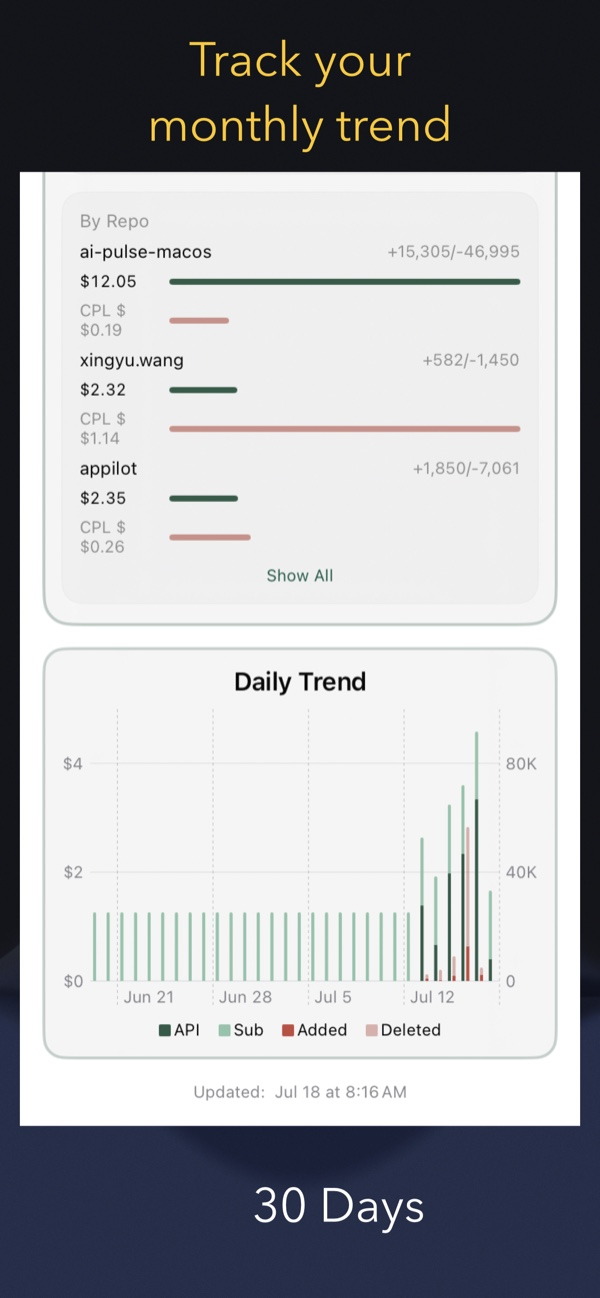
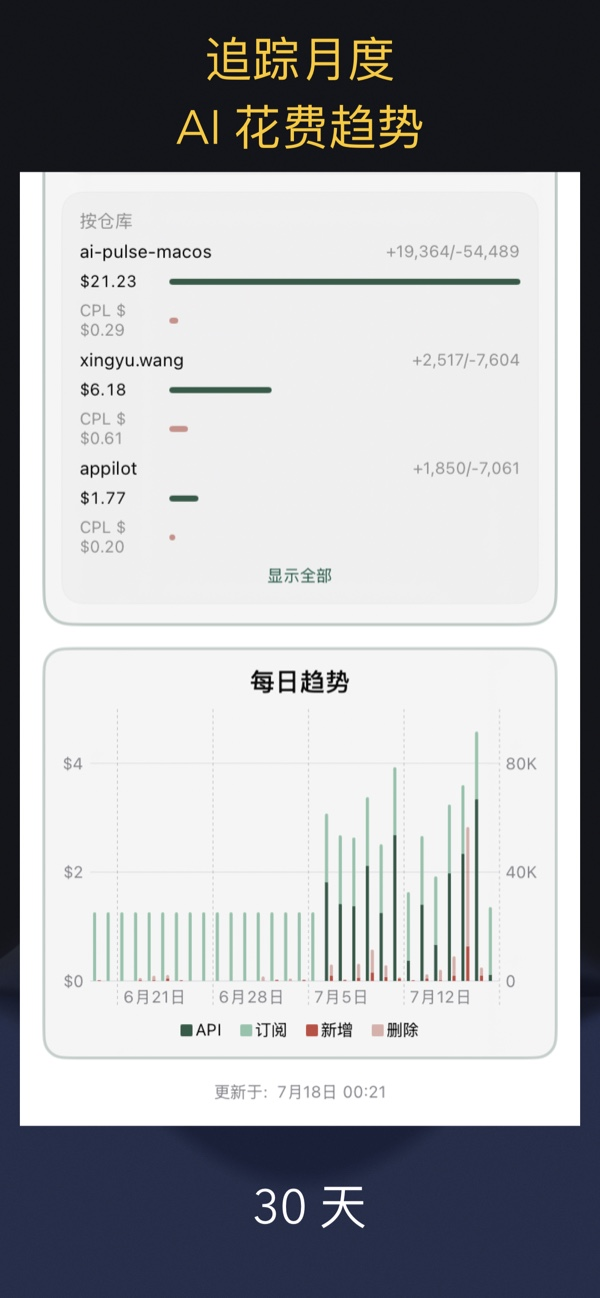
docs: merge into one bilingual README; fix swapped screenshot languages
- Merge README.md + README.zh.md into a single bilingual README.md:
  content interleaves Chinese then English per section; section headings
  show both languages on one line; screenshot gallery shows each screen
  in both EN and ZH versions side by side
- Delete README.zh.md (merged into README.md)
- Fix screenshot language labeling: the en/zh suffix on the screenshot
  files was reversed (English README had shown the Chinese screenshots);
  swapped the suffixes so names match content

diff --git a/README.md b/README.md
@@ -7,33 +7,46 @@
 [![Platform](https://img.shields.io/badge/platform-macOS%2014%2B%20%2F%20iOS%2016%2B-lightgrey)]()
 [![Swift](https://img.shields.io/badge/swift-6.0-orange)]()
 
-**Your AI coding cost tracker.** See exactly what you spend on AI coding tools —
-Claude Code, Cursor, Copilot, DeepSeek, and more — and whether the output is worth it.
-**100% local — zero data leaves your machine.**
+**你的 AI 编程花费追踪仪。** 精确掌握你在 AI 编码工具（Claude Code、Cursor、Copilot、DeepSeek 等）上的花费，以及这些产出是否值得。**100% 本地运行 —— 数据绝不出设备。**
 
-## Screenshots
+**Your AI coding cost tracker.** See exactly what you spend on AI coding tools — Claude Code, Cursor, Copilot, DeepSeek, and more — and whether the output is worth it. **100% local — zero data leaves your machine.**
 
-| Dashboard · Today | Dashboard · This Week | Settings |
+## 截图 Screenshots
+
+|  | English | 中文 |
 |:---:|:---:|:---:|
-| ![Dashboard Today](docs/screenshots/macos-dashboard-today-en.jpg) | ![Dashboard This Week](docs/screenshots/macos-dashboard-week-en.jpg) | ![Settings](docs/screenshots/macos-settings-en.jpg) |
+| **仪表盘 · 今日 / Dashboard · Today** | ![Dashboard Today](docs/screenshots/macos-dashboard-today-en.jpg) | ![仪表盘今日](docs/screenshots/macos-dashboard-today-zh.jpg) |
+| **仪表盘 · 本周 / Dashboard · This Week** | ![Dashboard This Week](docs/screenshots/macos-dashboard-week-en.jpg) | ![仪表盘本周](docs/screenshots/macos-dashboard-week-zh.jpg) |
+| **设置 / Settings** | ![Settings](docs/screenshots/macos-settings-en.jpg) | ![设置](docs/screenshots/macos-settings-zh.jpg) |
+| **iOS 仪表盘 · 今日 / iOS Dashboard · Today** | ![iOS Dashboard Today](docs/screenshots/ios-dashboard-today-en.jpg) | ![iOS 仪表盘今日](docs/screenshots/ios-dashboard-today-zh.jpg) |
+| **iOS 仪表盘 · 30 天 / iOS Dashboard · 30 Days** | ![iOS Dashboard 30 Days](docs/screenshots/ios-dashboard-30d-en.jpg) | ![iOS 仪表盘30天](docs/screenshots/ios-dashboard-30d-zh.jpg) |
 
-## Download
+## 下载 Download
 
 [![Download on the Mac App Store](https://tools.applemediaservices.com/api/badges/download-on-the-mac-app-store/black/en-us?size=250x83)](https://apps.apple.com/us/app/ai-pulse/id6786290416?mt=12)
 [![Download on the App Store](https://tools.applemediaservices.com/api/badges/download-on-the-app-store/black/en-us?size=250x83)](https://apps.apple.com/us/app/ai-pulse-coding-cost-tracker/id6786290416?mt=8)
 
+- **macOS 版** — 需要 macOS 14 Sonoma 或更高版本
+- **iOS 版** — 需要 iOS 16 或更高版本，以及 macOS 版作为数据来源
 - **macOS** — requires macOS 14 Sonoma or later
 - **iOS** — requires iOS 16 or later, and the macOS version as its data source
 
-💡 **Universal Purchase — buy once, use on both platforms.** A single purchase
-covers iOS and macOS. If you already own the Mac version and still see a price
-button on your iPhone or iPad, don't worry — as long as you're signed in with
-the same Apple ID, the App Store will recognize your existing purchase and let
-you download for free. You will never be charged twice.
+💡 **多平台通用购买（Universal Purchase）—— 一次购买，iOS 与 macOS 通用。** 如果您已经购买了 Mac 版，在 iPhone / iPad 上下载时仍看到价格按钮，请不要担心：只要使用同一个 Apple ID，直接点击购买即可，系统会自动识别您的购买记录并提示「免费下载」，绝不会向您重复扣费。
 
-## Features
+💡 **Universal Purchase — buy once, use on both platforms.** A single purchase covers iOS and macOS. If you already own the Mac version and still see a price button on your iPhone or iPad, don't worry — as long as you're signed in with the same Apple ID, the App Store will recognize your existing purchase and let you download for free. You will never be charged twice.
 
-### Dashboard
+## 功能 Features
+
+### 仪表盘（Dashboard）
+
+以机器人头像为主视觉的主窗口，一目了然：
+
+- **今日 / 本周 / 30 天** — 一键切换时间范围
+- **环形图** — 订阅 vs API 花费分布，外加各服务商明细
+- **趋势图** — 每日 API + 订阅花费堆叠展示（本周 / 30 天页签）
+- **工具 & 仓库排行** — 哪些 AI 工具和项目烧钱最多，含 **CPL（代码行成本）**
+- **实时统计** — 净增代码行、增/删行数、请求次数、Token 用量
+- **余额 & 额度** — 今日页签显示 API 余额与订阅用量（如 Claude、Copilot）
 
 Your home screen — styled as a robot head — shows the full picture at a glance:
 
@@ -44,7 +57,14 @@ Your home screen — styled as a robot head — shows the full picture at a glan
 - **Live stats** — net lines of code, added/deleted lines, request count, and token usage
 - **Balances & quotas** — remaining API balance and subscription utilization (e.g. Claude, Copilot) on the Today tab
 
-### Dock
+### Dock 图标（Dock）
+
+Dock 图标是你的「活」花费仪表：
+
+- **花费进度环** — 图标周围的光环随今日花费 vs 日均费率填充
+- **角标** — 图标上直接显示今日总额
+- **右键统计菜单** — 今日/本周概览，以及按工具、服务商、仓库下钻
+- **金色脉冲** — 新数据到达时的一抹光晕
 
 The Dock icon is a living gauge for your spending:
 
@@ -53,67 +73,72 @@ The Dock icon is a living gauge for your spending:
 - **Right-click stats menu** — today/week summaries and drill-downs by tool, provider, and repo
 - **Gold pulse** — a brief glow whenever new data arrives
 
-### iOS Companion
+### iOS 伴侣应用（iOS Companion）
 
-A read-only companion that mirrors your spending to your iPhone or iPad via iCloud —
-today, this week, and 30-day trends, donut charts, and per-repo breakdowns. It never
-collects or uploads anything on its own; it only reads what your Mac has synced.
+只读伴侣应用，通过 iCloud 将花费镜像到你的 iPhone / iPad —— 今日、本周、30 天趋势、环形图、按仓库明细。它自身不采集、不上传任何数据，只读取 Mac 同步过来的内容。
 
-| iOS Dashboard · Today | iOS Dashboard · 30 Days |
-|:---:|:---:|
-| ![iOS Dashboard Today](docs/screenshots/ios-dashboard-today-en.jpg) | ![iOS Dashboard 30 Days](docs/screenshots/ios-dashboard-30d-en.jpg) |
+A read-only companion that mirrors your spending to your iPhone or iPad via iCloud — today, this week, and 30-day trends, donut charts, and per-repo breakdowns. It never collects or uploads anything on its own; it only reads what your Mac has synced.
 
-### Supported Tools
+### 支持的工具（Supported Tools）
+
+目前追踪 13 款 AI 工具，通过三种采集方式：
 
 AI Pulse tracks 13 AI tools today across three collection methods:
 
-| Collection method | Tools |
+| 采集方式 / Collection method | 工具 / Tools |
 |---|---|
-| **Log parsing** (token-level pricing) | Claude Code, aider, Codex CLI, OpenCode, Qwen Code |
-| **Balance API** (exact balance deltas) | DeepSeek, OpenAI, Kimi, Zhipu (ChatGLM), Anthropic\* |
-| **Subscription detection** (monthly fee, amortized) | Cursor, GitHub Copilot, Windsurf (+ Trae, Augment Code) |
+| **日志解析**（Token 级计价）/ **Log parsing** (token-level) | Claude Code、aider、Codex CLI、OpenCode、Qwen Code |
+| **余额 API**（精确余额差值）/ **Balance API** (exact deltas) | DeepSeek、OpenAI、Kimi、智谱（ChatGLM）、Anthropic\* |
+| **订阅检测**（月费按天摊销）/ **Subscription detection** | Cursor、GitHub Copilot、Windsurf（+ Trae、Augment Code） |
 
-\* Anthropic has no balance API, so its usage is estimated from token pricing.
+\* Anthropic 无余额 API，其用量按 Token 计价估算。 / Anthropic has no balance API, so its usage is estimated from token pricing.
 
-## Getting Started
+## 快速上手 Getting Started
 
-1. **Install** — download from the Mac App Store (requires macOS 14 or later).
-2. **Onboarding** — on first launch, a short walkthrough detects your installed AI tools
-   across four steps: AI providers, dev tools, repos, and a summary. Detected tools are
-   enabled automatically.
-3. **Grant Home access** — to read logs from Claude Code, Codex, OpenCode, Qwen, and aider
-   inside the sandbox, allow Home-folder access when prompted.
-4. **Add API keys** — Settings → Integrations → **AI Providers**. Keys are stored locally
-   and validated with a live balance check.
-5. **Choose plans** — Settings → Integrations → **Dev Tools** lets you pick your subscription
-   plan (e.g. Cursor Pro) and preferred API key.
-6. **Explore the Dashboard** — switch between Today, This Week, and 30 Days.
-7. **Right-click the Dock icon** anytime for a quick stats menu.
-8. **On the go?** Install the iOS companion with the same Apple ID — your spending
-   syncs automatically via iCloud.
+1. **安装** — 从 Mac App Store 下载（需要 macOS 14 或更高版本）。
+   **Install** — download from the Mac App Store (requires macOS 14 or later).
+2. **首次引导** — 首次启动的四步引导会检测你已安装的 AI 工具：AI 服务商、开发工具、仓库、完成。检测到的工具会自动启用。
+   **Onboarding** — on first launch, a short walkthrough detects your installed AI tools across four steps: AI providers, dev tools, repos, and a summary. Detected tools are enabled automatically.
+3. **授权主目录访问** — 在沙盒环境下读取 Claude Code、Codex、OpenCode、Qwen 和 aider 的日志时，按提示允许访问主目录。
+   **Grant Home access** — to read logs from Claude Code, Codex, OpenCode, Qwen, and aider inside the sandbox, allow Home-folder access when prompted.
+4. **添加 API Key** — 设置 → 集成 → **AI 服务商**。Key 仅保存在本地，并通过实时余额校验验证。
+   **Add API keys** — Settings → Integrations → **AI Providers**. Keys are stored locally and validated with a live balance check.
+5. **选择订阅方案** — 设置 → 集成 → **开发工具**，选择你的订阅方案（如 Cursor Pro）与首选 API Key。
+   **Choose plans** — Settings → Integrations → **Dev Tools** lets you pick your subscription plan (e.g. Cursor Pro) and preferred API key.
+6. **浏览仪表盘** — 在今日、本周、30 天之间切换。
+   **Explore the Dashboard** — switch between Today, This Week, and 30 Days.
+7. **随时右键 Dock 图标** 查看快速统计菜单。
+   **Right-click the Dock icon** anytime for a quick stats menu.
+8. **手机查看？** 使用同一 Apple ID 安装 iOS 伴侣应用 —— 花费会自动通过 iCloud 同步。
+   **On the go?** Install the iOS companion with the same Apple ID — your spending syncs automatically via iCloud.
 
-## Data & Privacy
+## 数据与隐私 Data & Privacy
 
-- **100% local** — everything is processed on your Mac; no data leaves your machine.
-- **API keys** are stored locally and used only to query your own balances.
-- **iOS companion is read-only** — it never collects anything itself, and iCloud sync
-  happens only between your own devices signed in with the same Apple ID.
+- **100% 本地运行** — 一切都在你的 Mac 上处理，数据绝不出设备。
+  **100% local** — everything is processed on your Mac; no data leaves your machine.
+- **API Key** 仅保存在本地，只用于查询你自己的余额。
+  **API keys** are stored locally and used only to query your own balances.
+- **iOS 伴侣为只读** — 它自身不采集任何数据；iCloud 同步只发生在使用同一 Apple ID 登录的你自己的设备之间。
+  **iOS companion is read-only** — it never collects anything itself, and iCloud sync happens only between your own devices signed in with the same Apple ID.
 
-## Requirements
+## 环境要求 Requirements
 
+- macOS 14 Sonoma 或更高版本
+- iOS 伴侣需要 iOS 16 或更高版本（并以 macOS 版作为数据来源）
 - macOS 14 Sonoma or later
 - The iOS companion requires iOS 16 or later (plus the macOS version as its data source)
 
-## Related Projects
+## 相关项目 Related Projects
 
-- [AI Pulse for Chrome](https://github.com/wxy/ai-pulse) — browser extension for
-  web-based AI tools (ChatGPT, Claude.ai, DeepSeek Chat, and more)
+- [AI Pulse Chrome 扩展](https://github.com/wxy/ai-pulse) — 覆盖网页端 AI 工具（ChatGPT、Claude.ai、DeepSeek Chat 等）
+- [AI Pulse for Chrome](https://github.com/wxy/ai-pulse) — browser extension for web-based AI tools (ChatGPT, Claude.ai, DeepSeek Chat, and more)
 
-## Contributing
+## 参与贡献 Contributing
 
-See [CONTRIBUTING.md](CONTRIBUTING.md) for development setup, architecture, and how to
-add new integrations.
+开发环境搭建、架构说明、如何新增集成，请参阅 [CONTRIBUTING.md](CONTRIBUTING.md)。
 
-## License
+See [CONTRIBUTING.md](CONTRIBUTING.md) for development setup, architecture, and how to add new integrations.
+
+## 许可证 License
 
 Apache-2.0
